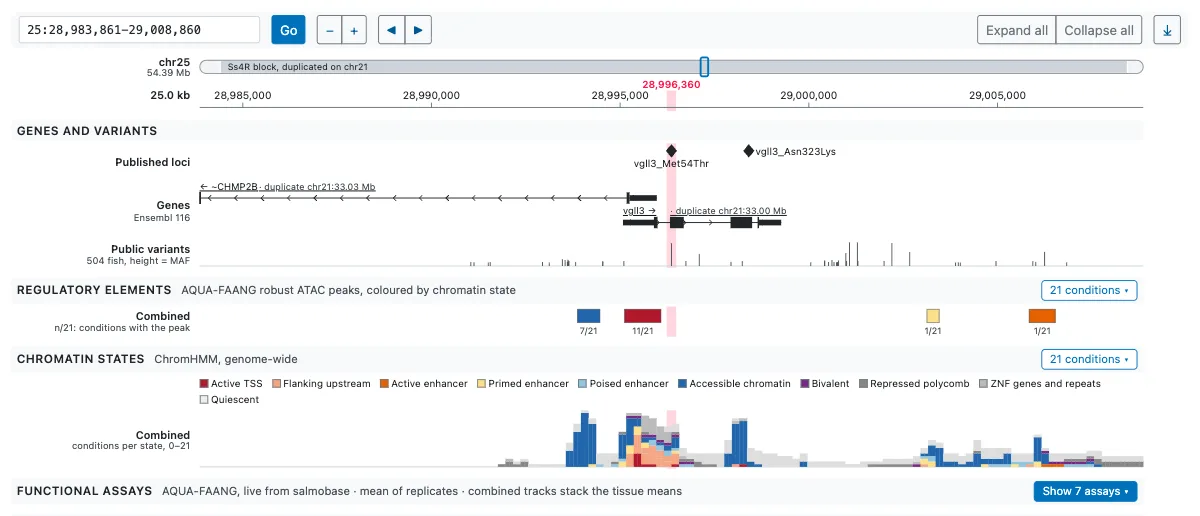
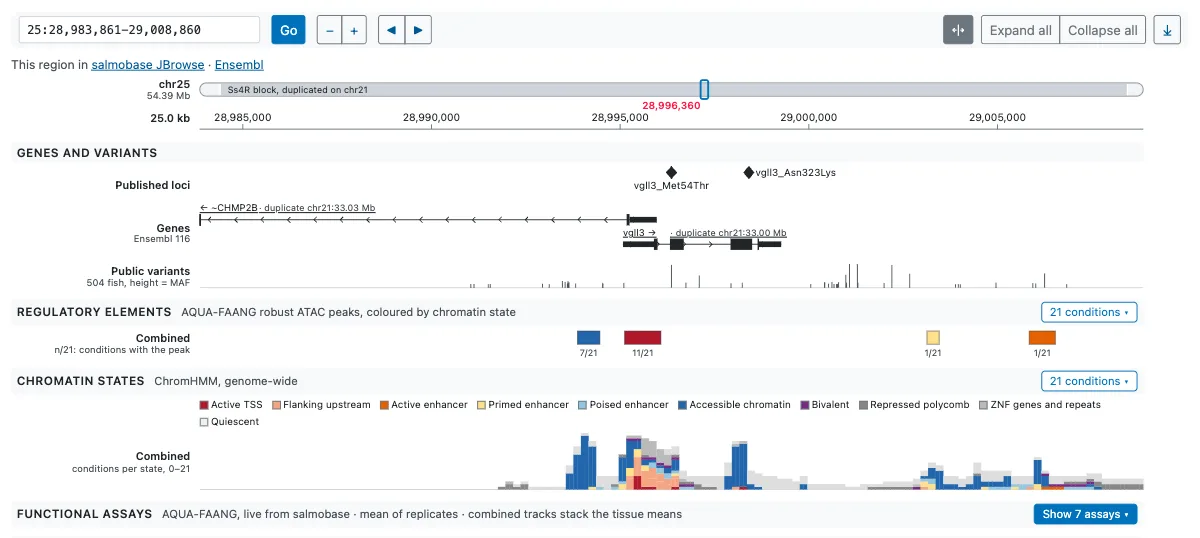
Locus browser: no red centre band; a click holds the mouse line, a button turns it off; region links above the tracks

diff --git a/snpportal/snpportal/templates/snpportal/locus.html b/snpportal/snpportal/templates/snpportal/locus.html
@@ -2,8 +2,8 @@
 {% load snpportal_tags %}
 {% comment %}Locus browser (browser.context; opens at vgll3 without a region): one slim control bar, then track groups on one
    axis. htmx swaps #locus-view (controls and tracks) from locus/svg/ when moving; the functional assays load one assay
-   at a time from locus/assay/ when their section is opened. portal.js draws a line at the mouse through the tracks and
-   names its base on the ruler. Every link and the form also work without JavaScript.{% endcomment %}
+   at a time from locus/assay/ when their section is opened. portal.js draws a line at the mouse through the tracks, names
+   its base on the ruler and holds it still on a click. Every link and the form also work without JavaScript.{% endcomment %}
 {% block main %}
 <div id="locus-view" class="sp-browser">
   <form class="sp-bctl" method="get" action="{% url 'snpportal:locus' %}" role="search">
@@ -16,8 +16,10 @@
        hx-get="{% url 'snpportal:locus_svg' %}?{{ q }}" hx-target="#locus-view" hx-select="#locus-view" hx-swap="outerHTML" hx-indicator="#locus-busy"
        hx-push-url="{% url 'snpportal:locus' %}?{{ q }}">{{ label }}</a>{% else %}<span class="btn btn-outline-secondary disabled" aria-disabled="true" title="{{ tip }}">{{ label }}</span>{% endif %}{% if not forloop.counter0|divisibleby:2 %}</span>{% endif %}{% endfor %}
     <span id="locus-busy" class="spinner-border sp-spin htmx-indicator" role="status" aria-label="Loading"></span>{% endif %}
-    {% if groups %}<span class="btn-group btn-group-sm sp-push" role="group" aria-label="Track groups"><button type="button" class="btn btn-outline-secondary" data-all="open">Expand all</button><button type="button" class="btn btn-outline-secondary" data-all="close">Collapse all</button></span>
-    <a class="btn btn-sm btn-outline-secondary" href="{{ download }}" title="Download the locus figure (SVG)" aria-label="Download the locus figure (SVG)" hx-boost="false" download>&#10515;</a>{% endif %}
+    {% if groups %}<span class="sp-push"><button type="button" class="btn btn-sm btn-outline-secondary active" data-line aria-pressed="true" aria-label="Mouse line"
+       title="Mouse line on or off: it follows the mouse through the tracks; click the tracks to hold it, click again to let it go"><svg class="sp-ico" width="14" height="14" viewBox="0 0 16 16" aria-hidden="true"><path d="M8 1.5v13M1.5 8h4M10.5 8h4M3.5 6 1.5 8l2 2M12.5 6l2 2-2 2" fill="none" stroke="currentColor" stroke-width="1.5" stroke-linecap="round" stroke-linejoin="round"/></svg></button>
+    <span class="btn-group btn-group-sm" role="group" aria-label="Track groups"><button type="button" class="btn btn-outline-secondary" data-all="open">Expand all</button><button type="button" class="btn btn-outline-secondary" data-all="close">Collapse all</button></span>
+    <a class="btn btn-sm btn-outline-secondary" href="{{ download }}" title="Download the locus figure (SVG)" aria-label="Download the locus figure (SVG)" hx-boost="false" download>&#10515;</a></span>{% endif %}
   </form>
 
   {% if s.error %}<div class="sp-status sp-status-fail" role="alert">&#10007; {{ s.error }}</div>
@@ -28,6 +30,8 @@
   {% if s.key or synthetic %}{% include 'snpportal/_caveat.html' with synthetic=synthetic %}{% endif %}
   {% for note in notes %}<div class="sp-status sp-status-warn" role="status">&#9888; {{ note }}</div>{% endfor %}
   {% if truncated %}<div class="sp-status sp-status-warn" role="status">&#9888; Some lanes are cut short in this wide window: zoom in to see all of {{ truncated|join:", " }}.</div>{% endif %}
+  <p class="sp-small sp-muted mb-1">This region in <a href="{{ jbrowse }}" rel="noreferrer noopener" target="_blank">salmobase JBrowse</a> &middot;
+    <a href="{{ ensembl }}" rel="noreferrer noopener" target="_blank">Ensembl</a></p>
   <div class="sp-tracks" data-start="{{ s.start }}" data-end="{{ s.end }}">
     <div class="sp-trk sp-trk-chr"><div class="sp-trk-lab"><span class="sp-trk-name">chr{{ s.chrom }}</span><span class="sp-trk-sub">{{ size_text }}</span></div>{{ chromosome }}</div>
     <div class="sp-trk sp-trk-ruler"><div class="sp-trk-lab"><span class="sp-trk-name">{{ width_text }}</span></div>{{ ruler }}</div>
@@ -43,8 +47,6 @@
     </section>
     {% include 'snpportal/_browser_group.html' with g=other %}
   </div>
-  <p class="sp-small sp-muted mt-2 mb-0">This region in <a href="{{ jbrowse }}" rel="noreferrer noopener" target="_blank">salmobase JBrowse</a> &middot;
-    <a href="{{ ensembl }}" rel="noreferrer noopener" target="_blank">Ensembl</a></p>
   {% endif %}
 </div>
 {% endblock main %}

diff --git a/snpportal/snpportal/static/snpportal/portal.js b/snpportal/snpportal/static/snpportal/portal.js
@@ -213,17 +213,45 @@
     if (e.detail.elt.closest && e.detail.elt.closest("#locus-view .sp-bctl, #locus-view [data-retry]")) e.detail.parameters.open = opened();
   });
   document.addEventListener("htmx:pushedIntoHistory", function () { if (document.querySelector("#locus-view [data-group]")) sync(); });
-  var cur = null;  // the mouse line: over the track column (not the chromosome), at the base under the mouse
-  document.addEventListener("mousemove", function (e) {
+  /* the mouse line: follows the mouse over the track column (not the chromosome) and names the base under it on the
+     ruler; a click on the tracks holds it still and the next click lets it go; the [data-line] button turns it off */
+  var cur = null, held = false, off = false;
+  try { off = localStorage.getItem("sp-line") === "off"; } catch (e) { /* storage blocked: the line starts on */ }
+  function at(e) {  // the tracks under the mouse and its x on the axis, or null
     var t = e.target.closest ? e.target : null, box = t && !t.closest(".sp-trk-chr") && t.closest("#locus-view .sp-tracks");
     var ax = box && box.querySelector(".sp-ax"), r = ax && ax.getBoundingClientRect(), x = r ? e.clientX - r.left : -1;
-    if (cur && (cur !== box || x < 0 || x > r.width)) { cur.classList.remove("sp-cur"); cur = null; }
-    if (!r || x < 0 || x > r.width) return;
-    var a = +box.getAttribute("data-start"), b = +box.getAttribute("data-end"), base = Math.min(b, a + 1 + Math.floor(x / r.width * (b - a)));
-    box.style.setProperty("--sp-x", (r.left - ax.parentNode.getBoundingClientRect().left + x) + "px");
-    box.style.setProperty("--sp-pos", JSON.stringify(base.toLocaleString("en")));
-    box.classList.add("sp-cur");
-    cur = box;
+    return r && x >= 0 && x <= r.width ? {box: box, ax: ax, r: r, x: x} : null;
+  }
+  function follow(e) {
+    var p = at(e);
+    if (cur && (!p || cur !== p.box)) { cur.classList.remove("sp-cur"); cur = null; }
+    if (!p) return;
+    var a = +p.box.getAttribute("data-start"), b = +p.box.getAttribute("data-end"), base = Math.min(b, a + 1 + Math.floor(p.x / p.r.width * (b - a)));
+    p.box.style.setProperty("--sp-x", (p.r.left - p.ax.parentNode.getBoundingClientRect().left + p.x) + "px");
+    p.box.style.setProperty("--sp-pos", JSON.stringify(base.toLocaleString("en")));
+    p.box.classList.add("sp-cur");
+    cur = p.box;
+  }
+  function buttons() {
+    document.querySelectorAll("#locus-view [data-line]").forEach(function (b) { b.classList.toggle("active", !off); b.setAttribute("aria-pressed", !off); });
+  }
+  document.addEventListener("mousemove", function (e) {
+    if (cur && !cur.isConnected) { cur = null; held = false; }  // a move swapped the view
+    if (!off && !held) follow(e);
   });
+  document.addEventListener("click", function (e) {
+    if (e.target.closest && e.target.closest("#locus-view [data-line]")) {
+      off = !off;
+      held = false;
+      if (cur) { cur.classList.remove("sp-cur"); cur = null; }
+      try { localStorage.setItem("sp-line", off ? "off" : "on"); } catch (err) { /* not remembered */ }
+      buttons();
+    } else if (!off && at(e) && !e.target.closest("a, button, input")) {  // not a gene link or a group's toggle
+      follow(e);
+      held = !held;
+    }
+  });
+  document.addEventListener("htmx:afterSettle", buttons);
+  buttons();
 })();
 /* end browser */

diff --git a/snpportal/snpportal/static/snpportal/portal.css b/snpportal/snpportal/static/snpportal/portal.css
@@ -356,7 +356,7 @@ a.sp-card:hover { border-color: var(--sp-accent); }
 .sp-bctl { display: flex; flex-wrap: wrap; align-items: center; gap: 6px 12px; background: var(--sp-grey-50); border-radius: 6px;
   padding: 4px 8px; margin-bottom: 8px; }
 .sp-bctl .sp-region { width: 16rem; }
-.sp-bctl .sp-push { margin-left: auto; }
+.sp-bctl .sp-push { margin-left: auto; display: flex; gap: 8px; }  /* the line, groups and download buttons wrap together */
 .sp-tracks { overflow-x: auto; }
 .sp-trk { display: grid; grid-template-columns: 200px 1000px; align-items: center; width: 1200px; min-height: 14px; }
 .sp-trk-dense { min-height: 13px; }
@@ -386,6 +386,7 @@ a.sp-card:hover { border-color: var(--sp-accent); }
 .sp-blegend i { display: inline-block; width: 9px; height: 9px; margin-right: 3px; vertical-align: -1px; border: 1px solid var(--sp-grey-500); }
 .sp-blegend i.sp-tbg { background: currentColor; }
 .sp-assay-slot { padding-left: 200px; }
+.sp-bctl .sp-ico { vertical-align: -2px; }
 .sp .sp-spin { width: .8rem; height: .8rem; border-width: .15em; margin-right: 5px; vertical-align: -.1em; color: var(--sp-grey-700); }
 /* the mouse line (portal.js sets --sp-x and --sp-pos on .sp-tracks): through every track on the axis, its base on the ruler */
 .sp-trk:has(> .sp-ax) { position: relative; }

diff --git a/snpportal/snpportal/static/snpportal/tour/tour.css b/snpportal/snpportal/static/snpportal/tour/tour.css
@@ -16,11 +16,11 @@
 #tour-card-1 { left: 1.15%; top: 1.81%; width: 97.69%; height: 26.92%; }
 #tour-card-2 { left: 1.15%; top: 28.73%; width: 97.69%; height: 20.14%; }
 #tour-card-3 { left: 1.15%; top: 48.87%; width: 47.55%; height: 49.32%; }
-#tour-locus img { aspect-ratio: 1200 / 516; }
-#tour-locus-1 { left: 26.14%; top: 2.19%; width: 4.74%; height: 7.13%; }
-#tour-locus-2 { left: 0.63%; top: 21.88%; width: 98.74%; height: 30.70%; }
-#tour-locus-3 { left: 86.47%; top: 66.83%; width: 8.65%; height: 5.48%; }
-#tour-locus-4 { left: 0.63%; top: 91.96%; width: 94.97%; height: 6.58%; }
+#tour-locus img { aspect-ratio: 1200 / 538; }
+#tour-locus-1 { left: 26.14%; top: 2.10%; width: 4.74%; height: 6.83%; }
+#tour-locus-2 { left: 0.63%; top: 25.09%; width: 98.74%; height: 29.44%; }
+#tour-locus-3 { left: 86.47%; top: 68.20%; width: 8.65%; height: 5.26%; }
+#tour-locus-4 { left: 0.63%; top: 92.29%; width: 94.97%; height: 6.31%; }
 #tour-panel img { aspect-ratio: 1200 / 816; }
 #tour-panel-1 { left: 2.29%; top: 14.41%; width: 37.17%; height: 5.25%; }
 #tour-panel-2 { left: 43.75%; top: 14.41%; width: 17.86%; height: 5.25%; }

diff --git a/snpportal/snpportal/browser.py b/snpportal/snpportal/browser.py
@@ -24,7 +24,6 @@ from .views import private
 
 W = 1000  # SVG user units across the track column, drawn 1:1 so text never stretches
 G = palette.GREY
-GLOW = 10  # the centre band's width: a published-SNP diamond's
 TISSUE_ORDER = ("Brain", "Gonad", "Liver", "Muscle", "Gill", "HeadKidney", "DistalIntestine", "Embryo")
 TISSUE_NAMES = {"HeadKidney": "Head kidney", "DistalIntestine": "Distal intestine"}
 STAGES = {"LateCleavage": "L cleavage", "EarlyBlastulation": "E blastula", "MidBlastulation": "M blastula",
@@ -77,17 +76,13 @@ def centre(s):
     return s["mark"] or (s["start"] + s["end"] + 1) // 2
 
 
-def trk(ax, s, h, body, line_from=0):
-    """One track: an SVG on the shared axis (class sp-ax: portal.js draws the mouse line through these) whose first mark
-    is the centre band, so the track's own marks draw over it."""
-    x = ax.x(centre(s) - 0.5)
-    band = (f'<line x1="{x:.1f}" x2="{x:.1f}" y1="{line_from}" y2="{h}" stroke="{palette.CENTRE}" stroke-width="{GLOW}" '
-            'stroke-opacity="0.18"/>')
-    return mark_safe(f'<svg class="sp-trk-svg sp-ax" viewBox="0 0 {W} {h}" width="{W}" height="{h}" role="img">{band}{body}</svg>')
+def trk(h, body):
+    """One track: an SVG on the shared axis (class sp-ax: portal.js draws the mouse line through these)."""
+    return mark_safe(f'<svg class="sp-trk-svg sp-ax" viewBox="0 0 {W} {h}" width="{W}" height="{h}" role="img">{body}</svg>')
 
 
 def plain(h, body):
-    """A row that isn't genomic (no centre band)."""
+    """A row that isn't on the axis (no mouse line)."""
     return mark_safe(f'<svg class="sp-trk-svg" viewBox="0 0 {W} {h}" width="{W}" height="{h}" role="img">{body}</svg>')
 
 
@@ -171,7 +166,7 @@ def ruler(ax, s):
         half = 3.3 * len(f"{t:,}")
         anchor = "start" if x - half < 0 else "end" if x + half > W else "middle"
         body.append(f'<line x1="{x:.1f}" x2="{x:.1f}" y1="25" y2="30" stroke="{G[500]}"/>' + locus_svg._t(x, 21, f"{t:,}", 11, G[900], anchor))
-    return trk(ax, s, 34, "".join(body), line_from=12)
+    return trk(34, "".join(body))
 
 
 # ---- genes and variants ----
@@ -201,7 +196,7 @@ def genes_group(request, s, ax, data):
     if gwas:
         body = []
         h = locus_svg.gwas_lane(body, ax, gwas, 0, None, height=120)
-        rows.append(row("", trk(ax, s, h, "".join(body))))
+        rows.append(row("", trk(h, "".join(body))))
     snps = [] if gwas else locus.user_snps(request, s)
     if snps:
         top = max([p.get("tier_score") or 0 for p in snps] + [1])
@@ -212,11 +207,11 @@ def genes_group(request, s, ax, data):
             dot = (f'<line x1="{x:.1f}" x2="{x:.1f}" y1="40" y2="{40 - h:.1f}" stroke="{G[500]}"/>'
                    f'<circle cx="{x:.1f}" cy="{40 - h:.1f}" r="4" fill="{fill}" stroke="{G[900]}" stroke-width="0.6"><title>{escape(p["title"])}</title></circle>')
             body.append(f'<a href="{escape(p["url"])}">{dot}</a>' if p.get("url") else dot)
-        rows.append(row("Your SNPs", trk(ax, s, 44, "".join(body)), f"tiers: {s['trait'].replace('_', ' ')}"))
+        rows.append(row("Your SNPs", trk(44, "".join(body)), f"tiers: {s['trait'].replace('_', ' ')}"))
     if data.get("known"):
         body = []
         h = locus_svg._published(body, ax, data["known"], 0, noop, {})
-        rows.append(row("Published loci", trk(ax, s, h, "".join(body))))
+        rows.append(row("Published loci", trk(h, "".join(body))))
     if data.get("molqtl"):
         body = []
         for m in data["molqtl"]:
@@ -224,7 +219,7 @@ def genes_group(request, s, ax, data):
             tissue = (m.get("tissues") or "").split(",")[0]
             body.append(f'<path d="M{x:.1f} 2 l5 9 l-10 0z" fill="{palette.TISSUES.get(tissue, G[700])}" stroke="{G[900]}" '
                         f'stroke-width="0.5"><title>{escape(m.get("title") or "")}</title></path>')
-        rows.append(row("molQTL leads", trk(ax, s, 13, "".join(body)), "nf-RASQUAL, 12 fish"))
+        rows.append(row("molQTL leads", trk(13, "".join(body)), "nf-RASQUAL, 12 fish"))
     duplicates(data.get("genes", []))
     body = []
     h = locus_svg._genes(body, ax, data.get("genes", []), 0, lambda gid: reverse("snpportal:gene", args=[gid]), 8, noop)
@@ -232,7 +227,7 @@ def genes_group(request, s, ax, data):
                    f'fill="url(#sp-lore)" fill-opacity="0.25"><title>LORe region {escape(str(b.get("label") or ""))}: the duplicate '
                    'copies are still nearly identical</title></rect>' for b in data.get("lore", []))
     defs = locus_svg._hatch("sp", "lore", locus_svg.LORE, -45) if lore else ""  # id sp-lore
-    rows.append(row("Genes", trk(ax, s, h, (f"<defs>{defs}</defs>" if defs else "") + lore + "".join(body)), "Ensembl 116"))
+    rows.append(row("Genes", trk(h, (f"<defs>{defs}</defs>" if defs else "") + lore + "".join(body)), "Ensembl 116"))
     body = [f'<line x1="0" x2="{W}" y1="26" y2="26" stroke="{G[300]}"/>']
     for v in data.get("variants", []):
         x, h = ax.x(v["pos"] - 0.5), 3 + 22 * min(0.5, v.get("maf") or 0) / 0.5
@@ -242,7 +237,7 @@ def genes_group(request, s, ax, data):
         body.append(f'<line x1="{x:.1f}" x2="{x:.1f}" y1="26" y2="{26 - h:.1f}" stroke="{G[700]}"><title>{escape(tip)}</title></line>')
     if not data.get("variants"):
         body.append(locus_svg._t(4, 20, "none in this window", 9.5, G[700]))
-    rows.append(row("Public variants", trk(ax, s, 28, "".join(body)), "504 fish, height = MAF"))
+    rows.append(row("Public variants", trk(28, "".join(body)), "504 fish, height = MAF"))
     return group("genes", "Genes and variants", "", rows)
 
 
@@ -289,11 +284,11 @@ def peaks_group(s, ax, data, cfg, prefix, deadline, open_, notes):
         segs = found[c]
         parts = [state_rect(ax, a, e, 2, 9, st, short(c)) for a, e, st in segs or ()] if segs is not None else [
             f'<rect x="0" y="2" width="{W}" height="9" fill="{G[200]}"><title>{escape(short(c))}: peaks unavailable</title></rect>']
-        more.append(row(short(c), trk(ax, s, 13, "".join(parts)), tissue=tissue_of(c), dense=True))
+        more.append(row(short(c), trk(13, "".join(parts)), tissue=tissue_of(c), dense=True))
     if any(v is None for v in found.values()):
         notes.append("Some per-condition peak tracks did not load in time (grey rows); reload to try again.")
     return group("peaks", "Regulatory elements", "AQUA-FAANG robust ATAC peaks, coloured by chromatin state",
-                 [row("Combined", trk(ax, s, 32, "".join(body)), f"n/{len(conditions)}: conditions with the peak")],
+                 [row("Combined", trk(32, "".join(body)), f"n/{len(conditions)}: conditions with the peak")],
                  more, f"{len(more)} conditions", open_)
 
 
@@ -338,9 +333,9 @@ def hmm_group(s, ax, data, cfg, prefix, deadline, open_, notes):
             parts = [f'<rect x="0" y="1" width="{W}" height="11" fill="{G[200]}"><title>{escape(short(c))}: ChromHMM unavailable</title></rect>']
         else:
             parts = [state_rect(ax, a, e, 1, 11, st, short(c)) for a, e, st in segs.get(c) or ()]
-        more.append(row(short(c), trk(ax, s, 13, "".join(parts)), tissue=tissue_of(c), dense=True))
+        more.append(row(short(c), trk(13, "".join(parts)), tissue=tissue_of(c), dense=True))
     legend = [(f"st-{x}", x.replace("_", " ").replace(" 1", "")) for x in LEGEND_STATES]
-    return group("hmm", "Chromatin states", note, [row("Combined", trk(ax, s, h + 2, "".join(body)), f"conditions per state, 0–{total}")],
+    return group("hmm", "Chromatin states", note, [row("Combined", trk(h + 2, "".join(body)), f"conditions per state, 0–{total}")],
                  more, f"{len(more)} conditions", open_, legend)
 
 
@@ -431,14 +426,14 @@ def assay_group(s, assay, open_):
                 parts.append(polygon(xs, [22 - 21 * min(1, x / vmax) for x in v], [22] * len(xs), colour))
         parts.append(f'<line x1="0" x2="{W}" y1="{12 if rna else 22}" y2="{12 if rna else 22}" stroke="{G[300]}" stroke-width="0.6"/>')
         reps = max(found[c, st][1] for st in strands if (c, st) in found)
-        more.append(row(short(c), trk(ax, s, 24, "".join(parts)), tissue=tissue[c]))
+        more.append(row(short(c), trk(24, "".join(parts)), tissue=tissue[c]))
         more[-1]["title"] = f"mean of {reps} replicate{'s' if reps > 1 else ''}"
     scale = f"conditions on a log scale, 0–{vmax:.0f} RPM" if rna else f"conditions 0–{vmax:.2f} RPM"
     note = f"{what.split(';')[0]}{'; + strand up, &#8722; down' if rna else ''} · {scale}"
     if failed:
         note += f" · {failed} of {len(tracks)} files did not load in time"
     sub = f"0–{total:.1f} RPM per strand" if rna else f"0–{total:.2f} RPM"
-    g = group(assay, title, note, [row("Combined", trk(ax, s, combined_h + 2, "".join(body)), sub)], more,
+    g = group(assay, title, note, [row("Combined", trk(combined_h + 2, "".join(body)), sub)], more,
               f"{len(more)} conditions", open_)
     g["failed"] = failed
     return g
@@ -463,8 +458,8 @@ def other_group(s, ax, data):
                     f'fill-opacity="{0.35 + 0.65 * (g.get("score") or 0) / top:.2f}"><title>GERP constrained element (65 fish), score {g.get("score")}</title></rect>')
     if not data.get("gerp"):
         gerp.append(locus_svg._t(4, 10, "none in this window", 9.5, G[700]))
-    return group("other", "Other annotation", "", [row("Ensembl regulatory", trk(ax, s, 13, "".join(body)), "build 116"),
-                                                   row("GERP constrained", trk(ax, s, 13, "".join(gerp)), "65 fish")])
+    return group("other", "Other annotation", "", [row("Ensembl regulatory", trk(13, "".join(body)), "build 116"),
+                                                   row("GERP constrained", trk(13, "".join(gerp)), "65 fish")])
 
 
 # ---- the page ----

diff --git a/snpportal/snpportal/explore.py b/snpportal/snpportal/explore.py
@@ -621,7 +621,7 @@ TOUR = [  # One slide each: a title (<= 6 words), text (<= 2 sentences, <= 40 wo
      "text": "The locus browser lines up genes, published loci, regulatory elements, chromatin states and live RNA, ATAC "
              "and ChIP data from salmobase. Open a group for one track per condition.",
      "alt": "Locus browser at vgll3 on chromosome 25: genes and published SNPs, regulatory elements, chromatin states and "
-            "the functional assays, with a red band at the centre.",
+            "the functional assays.",
      "callouts": [("Zoom and move", ".sp-bctl .btn-group:nth-of-type(1)"),
                   ("Genes, published loci and variants", "#g-genes"),
                   ("Open a group: one track per condition", "#g-hmm .sp-tog"),

diff --git a/snpportal/snpportal/palette.py b/snpportal/snpportal/palette.py
@@ -81,7 +81,7 @@ BLACKLISTED = ("#FFFFFF", "#878787", "BL")  # fill, hatch colour, label
 # Tissues (Okabe-Ito, colour-blind safe); for lines, swatches and dots, not for text backgrounds.
 TISSUES = {"Brain": "#0072B2", "Gill": "#56B4E9", "Gonad": "#CC79A7", "Liver": "#D55E00", "Muscle": "#009E73",
            "Embryo": "#E69F00", "HeadKidney": "#7B3294", "DistalIntestine": "#8C6D31"}  # the last two: RNA-seq only
-CENTRE = "#FF1744"  # the locus browser's centre band: a fluorescent red that no track uses
+CENTRE = "#FF1744"  # the locus browser's centre position on its ruler: a fluorescent red that no track uses
 
 REGBUILD = "#56B4E9"  # Okabe-Ito sky blue: 'Ensembl regulatory' in the 'why this tier' bar (apart from the blues under CVD)
 

diff --git a/snpportal/snpportal/tests_locus.py b/snpportal/snpportal/tests_locus.py
@@ -92,7 +92,7 @@ class LocusTest(SimpleTestCase):
         page = self.get(f"{reverse('snpportal:locus')}?{VGLL3}")
         for group in ("genes", "peaks", "hmm", "assays", "other"):  # track groups, closed by default
             self.assertIn(f'class="sp-grp" id="g-{group}"' if group != "assays" else 'class="sp-grp sp-sec" id="g-assays"', page)
-        self.assertIn(palette.CENTRE, page)  # the centre band and position
+        self.assertIn(palette.CENTRE, page)  # the centre position on the ruler
         self.assertIn("ENSSSAG00000053708", page)  # the vgll3 gene model, black, with its Ss4R duplicate linked
         self.assertRegex(page, r">(← )?vgll3( →)?</text>")
         self.assertIn("duplicate chr21:33.00 Mb", page)
